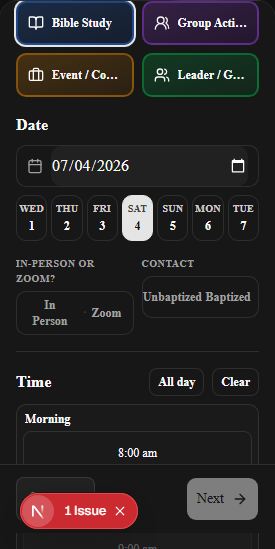
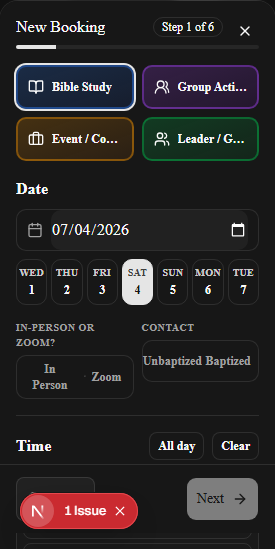
fix(ui): remove re-introduced base-ui portal counter-zoom (breaks dropdown anchors >=1280); refresh B25 + wizard-when baselines
2d66108 re-applied `zoom: var(--floating-portal-zoom)` to the Select/
Popover/DropdownMenu PORTALS — the exact pattern root-caused and removed in
2617fa9: CSS zoom on a base-ui Portal SCALES the Positioner's JS-computed
coords, throwing every popup off its anchor at >=1280 (EditUserDialog Role
options render fully off-screen). e2e E4 caught it red; failure screenshot
matches the documented mode. Restored the three components to their
prod-proven 2617fa9 state, removed the orphaned CSS var, and left a
poison-warning comment at the zoom media query. KEPT 2d66108's
PredictiveInput onChange improvement (reopen suggestions while typing).

- e2e B25: updated stale expectation — List is the default view since G1
  and the "Organization" title pill is xl-only, so the test now asserts
  rendered org rows, checks fitment in List, toggles to 3D, re-checks.
  Same coverage, current reality.
- wizard-when baselines (3 widths) regenerated: the old desktop baseline
  was captured with the dialog scrolled ~46px (its own header out of
  frame); content is otherwise identical. NOTE: these baselines embed the
  REAL date (mock-date pin does not reach the When date field) — they will
  drift on future days; flagged in the ledger.

Gate: FULL e2e chromium+mobile-s24 58 passed / 2 skipped (workers=2 — 8
workers oversubscribes this shared box and produces rotating cold flakes);
E4 green; vitest 478/7 todo; build clean.

diff --git a/src/components/ui/dropdown-menu.tsx b/src/components/ui/dropdown-menu.tsx
@@ -10,14 +10,8 @@ function DropdownMenu({ ...props }: MenuPrimitive.Root.Props) {
   return <MenuPrimitive.Root data-slot="dropdown-menu" {...props} />
 }
 
-function DropdownMenuPortal({ style, ...props }: MenuPrimitive.Portal.Props) {
-  return (
-    <MenuPrimitive.Portal
-      data-slot="dropdown-menu-portal"
-      style={{ zoom: "var(--floating-portal-zoom)", ...style }}
-      {...props}
-    />
-  )
+function DropdownMenuPortal({ ...props }: MenuPrimitive.Portal.Props) {
+  return <MenuPrimitive.Portal data-slot="dropdown-menu-portal" {...props} />
 }
 
 function DropdownMenuTrigger({ ...props }: MenuPrimitive.Trigger.Props) {
@@ -37,10 +31,7 @@ function DropdownMenuContent({
     "align" | "alignOffset" | "side" | "sideOffset"
   >) {
   return (
-    <MenuPrimitive.Portal
-      data-slot="dropdown-menu-portal"
-      style={{ zoom: "var(--floating-portal-zoom)" }}
-    >
+    <MenuPrimitive.Portal>
       <MenuPrimitive.Positioner
         className="isolate z-50 outline-none"
         align={align}

diff --git a/e2e/mobile.spec.ts b/e2e/mobile.spec.ts
@@ -52,16 +52,18 @@ test.describe('mobile (S24 Ultra) fitment', () => {
     ).toBeVisible(); // a seeded contact actually rendered (not an empty/clipped list)
   });
 
-  // B25 — the org tree page (3D canvas) must offer the List view and fit phone
-  // width with no pan in either mode.
-  test('B25 the org tree fits phone width and toggles to List view', async ({ page }) => {
+  // B25 — the org page must fit phone width with no pan in BOTH view modes.
+  // List is the DEFAULT since G1 (groupsDefaultView), and the "Organization"
+  // title pill is xl-only — so assert readiness via rendered org rows, then
+  // toggle to 3D and re-check fitment there.
+  test('B25 the org page fits phone width in List and 3D views', async ({ page }) => {
     await loginAs(page, 'branch1');
     await page.goto('/groups');
-    await expect(page.getByText(/organization/i).first()).toBeVisible();
-    expect(await pageOverflowPx(page), '/groups (3D) must not pan').toBeLessThanOrEqual(1);
-    await page.getByRole('button', { name: /^list$/i }).first().click();
     await expect(page.getByText(/michael|gabriel|joseph/i).first()).toBeVisible();
     expect(await pageOverflowPx(page), '/groups (List) must not pan').toBeLessThanOrEqual(1);
+    await page.getByRole('button', { name: /^3d$/i }).first().click();
+    await expect(page.getByText(/drag to pan/i).first()).toBeVisible(); // 3D scene mounted
+    expect(await pageOverflowPx(page), '/groups (3D) must not pan').toBeLessThanOrEqual(1);
   });
 
   // B49 — the long settings page (cards + danger zone + switch rows) must fit

diff --git a/src/app/globals.css b/src/app/globals.css
@@ -73,7 +73,6 @@
   --chart-4: oklch(0.371 0 0);
   --chart-5: oklch(0.269 0 0);
   --radius: 0.625rem;
-  --floating-portal-zoom: 1;
   --sidebar: oklch(0.985 0 0);
   --sidebar-foreground: oklch(0.145 0 0);
   --sidebar-primary: oklch(0.205 0 0);
@@ -900,10 +899,16 @@ html[data-theme="deepspace"] [data-calendar-surface="header"] {
    VERIFIED on prod that the /groups react-three-fiber canvas + node-click
    raycasting still work under this zoom (the investigation's flagged risk).
    Supersedes the "desktop ≥1280 frozen" note in the block below (user request). */
+/* NOTE (2026-07-04, twice-proven): do NOT reintroduce a counter-zoom var
+   applied to a base-ui Portal/Positioner (`--floating-portal-zoom`) — CSS
+   `zoom` there SCALES the Positioner's JS-computed coords and throws every
+   Select/Popover/DropdownMenu off its anchor at >=1280 (EditUserDialog Role
+   options render off-screen; e2e E4 catches it). Popups render at 90% like
+   the rest of the zoomed app — that is the accepted, prod-proven behavior.
+   See OVERHAUL_PROGRESS.md "dropdown work forensics". */
 @media (min-width: 1280px) {
   :root {
     zoom: 0.9;
-    --floating-portal-zoom: 1.1111111111;
   }
 }
 

diff --git a/src/components/ui/popover.tsx b/src/components/ui/popover.tsx
@@ -26,10 +26,7 @@ function PopoverContent({
     "align" | "alignOffset" | "side" | "sideOffset"
   >) {
   return (
-    <PopoverPrimitive.Portal
-      data-slot="popover-portal"
-      style={{ zoom: "var(--floating-portal-zoom)" }}
-    >
+    <PopoverPrimitive.Portal data-slot="popover-portal">
       <PopoverPrimitive.Positioner
         align={align}
         alignOffset={alignOffset}

diff --git a/src/components/ui/select.tsx b/src/components/ui/select.tsx
@@ -76,10 +76,7 @@ function SelectContent({
     "align" | "alignOffset" | "side" | "sideOffset" | "alignItemWithTrigger"
   >) {
   return (
-    <SelectPrimitive.Portal
-      data-slot="select-portal"
-      style={{ zoom: "var(--floating-portal-zoom)" }}
-    >
+    <SelectPrimitive.Portal data-slot="select-portal">
       <SelectPrimitive.Positioner
         side={side}
         sideOffset={sideOffset}